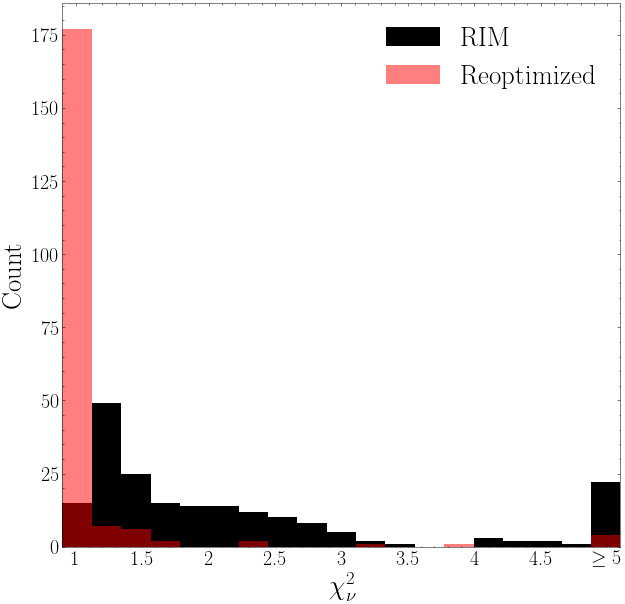
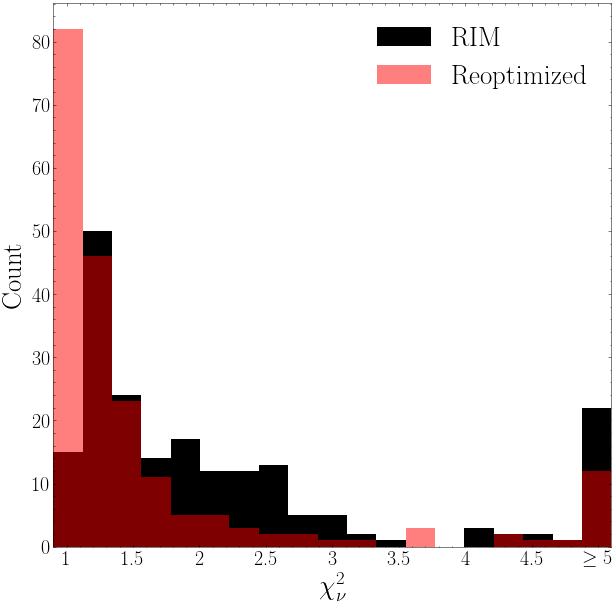
Changed reot script for experiment 4: Add noise to observation durint reopt + 10 examples for MSE.
Former-commit-id: 9a0290ecba783584cb14686e9903a94a1feb36fb
Former-commit-id: 7ffc18915c4b8ad60407ec87d920c5270bfb091b [formerly 2cacb5c707c9896add57ebb598f8223ae1076145]
Former-commit-id: eb0b33d60ed2d6de18d85044e576b9a80e06bdcf

diff --git a/scripts/rim_results_v4_and_optim_posterior.py b/scripts/rim_results_v4_and_optim_posterior.py
@@ -181,12 +181,14 @@ def distributed_strategy(args):
                     with tf.GradientTape() as tape:
                         tape.watch(unet.trainable_variables)
                         # log likelihood
+                        noise = tf.random.normal(shape=lens.shape, stddev=noise_rms)
+                        s, k, chi_sq = rim.call(lens - noise, noise_rms, psf, outer_tape=tape) # experiment 4, try to add noise to input to remove noise leakage?
                         # s, k, chi_sq = rim.call(lens, noise_rms, psf, outer_tape=tape) # was using this in experiment 1 and 2 + only single sample for mse
-                        # cost = tf.reduce_mean(chi_sq)
+                        cost = tf.reduce_mean(chi_sq)
                         # log prior
                         s, k, chi_sq = rim.call(sampled_lens, noise_rms, tf.tile(psf, [args.sample_size, 1, 1, 1]), outer_tape=tape)
                         _kappa_mse = tf.reduce_sum(wk(10**sampled_kappa) * (k - sampled_kappa) ** 2, axis=(2, 3, 4))
-                        cost = tf.reduce_mean(_kappa_mse)
+                        cost += tf.reduce_mean(_kappa_mse)
                         cost += tf.reduce_mean((s - sampled_source)**2)
                         cost += tf.reduce_sum(rim.unet.losses)  # weight decay
 
